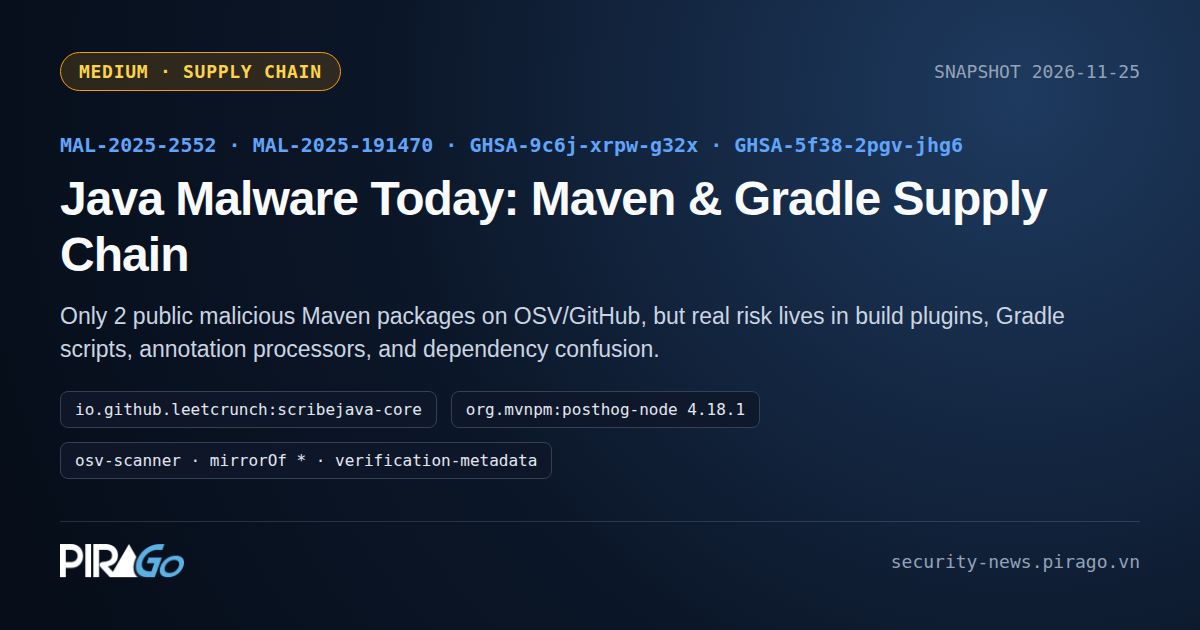
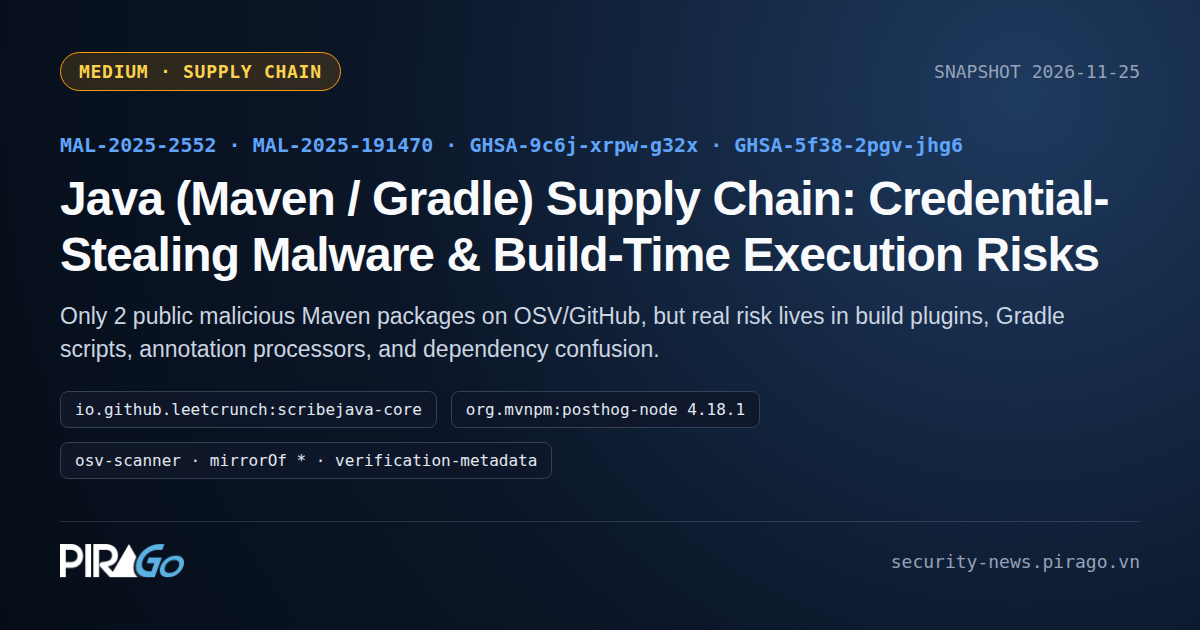
docs: clarify vulnerability-focused title for Java/Maven analysis and add rule in featured/RULES.md

Changed region(s): [[0.0308, 0.2714, 0.925, 0.4524]]

diff --git a/featured/vulnerabilities/java-maven-supply-chain-2026-11/ja/analysis.html b/featured/vulnerabilities/java-maven-supply-chain-2026-11/ja/analysis.html
@@ -1,8 +1,8 @@
 ---
 layout: default
 lang: ja
-title: "Java Malware Today — Maven / Gradle サプライチェーンの脅威分析とビルド点検"
-description: "2026年11月25日時点の Java/Maven マルウェア状況：OSV/GitHub の公開悪性パッケージ2件（scribejava-core タイポスクワット、org.mvnpm:posthog-node）、ビルド時の攻撃面（プラグイン・アノテーションプロセッサ・依存関係混乱）、点検コマンドまとめ。"
+title: "Java（Maven / Gradle）サプライチェーン — OAuth/GitHub トークン窃取マルウェア（MAL-2025-2552・MAL-2025-191470）とビルド時コード実行リスク"
+description: "2026年11月25日時点の Java/Maven/Gradle サプライチェーン脅威分析：OSV/GitHub の悪性パッケージ2件（OAuth 窃取の scribejava-core 偽装、Sha1-Hulud 感染の org.mvnpm:posthog-node）、ビルド時コード実行面（プラグイン・APT・依存関係混乱）と点検手順。"
 image: "/featured/vulnerabilities/java-maven-supply-chain-2026-11/java-maven-supply-chain-og.png"
 category: "脆弱性分析"
 permalink: /ja/featured/vulnerabilities/java-maven-supply-chain-2026-11/analysis/
@@ -34,7 +34,7 @@ permalink: /ja/featured/vulnerabilities/java-maven-supply-chain-2026-11/analysis
 </style>
 
 <div class="report-header">
-  <h1>Java Malware Today — Maven &amp; Gradle サプライチェーンの脅威分析とビルド点検</h1>
+  <h1>Java（Maven / Gradle）サプライチェーン — OAuth/GitHub トークン窃取マルウェア（MAL-2025-2552・MAL-2025-191470）とビルド時コード実行リスク</h1>
   <p class="sub">公開日：<strong>2026-11-25</strong> · 更新：<strong>2026-11-26</strong> · 月次レポート：<a href="{{ '/ja/monthly/2026-11/' | relative_url }}">2026年11月レポート</a> · 重大度：<span class="badge med">中（Supply Chain）</span>（出典：Safeguard.sh、GitHub Advisories、OSV、OpenSSF）。</p>
 </div>
 

diff --git a/featured/vulnerabilities/java-maven-supply-chain-2026-11/analysis.html b/featured/vulnerabilities/java-maven-supply-chain-2026-11/analysis.html
@@ -1,7 +1,7 @@
 ---
 layout: default
-title: "Java Malware Today — Chuỗi cung ứng Maven & Gradle: Phân tích & Kiểm tra build"
-description: "Tổng hợp bức tranh mã độc Java/Maven tính đến 25-11-2026: 2 gói độc hại trên OSV/GitHub (scribejava-core typosquat, org.mvnpm:posthog-node), bề mặt tấn công lúc build (Maven/Gradle plugin, annotation processor, dependency confusion) và lệnh kiểm tra thực tế."
+title: "Chuỗi cung ứng Java (Maven / Gradle) — Mã độc đánh cắp OAuth/GitHub token (MAL-2025-2552, MAL-2025-191470) & Rủi ro thực thi mã lúc build"
+description: "Phân tích rủi ro chuỗi cung ứng Java/Maven/Gradle tính đến 25-11-2026: 2 gói độc hại trên OSV/GitHub (scribejava-core typosquat lấy OAuth token, org.mvnpm:posthog-node nhiễm sâu Sha1-Hulud), bề mặt thực thi mã lúc build (plugin, annotation processor, dependency confusion) và lệnh kiểm tra."
 image: "/featured/vulnerabilities/java-maven-supply-chain-2026-11/java-maven-supply-chain-og.png"
 category: "Phân tích lỗ hổng"
 ---
@@ -32,7 +32,7 @@ category: "Phân tích lỗ hổng"
 </style>
 
 <div class="report-header">
-  <h1>Java Malware Today — Chuỗi cung ứng Maven &amp; Gradle &amp; Cách kiểm tra build</h1>
+  <h1>Chuỗi cung ứng Java (Maven / Gradle) — Mã độc đánh cắp OAuth/GitHub token (MAL-2025-2552, MAL-2025-191470) &amp; Rủi ro thực thi mã lúc build</h1>
   <p class="sub">Công bố: <strong>2026-11-25</strong> · Cập nhật: <strong>2026-11-26</strong> · Bản tin tháng: <a href="{{ '/monthly/2026-11/' | relative_url }}">Báo cáo tháng 11/2026</a> · Mức độ: <span class="badge med">Trung bình (Supply Chain)</span> (Nguồn: Safeguard.sh, GitHub Advisories, OSV, OpenSSF).</p>
 </div>
 

diff --git a/featured/RULES.md b/featured/RULES.md
@@ -20,6 +20,8 @@ Mỗi case đặt trong `featured/<type>/<case-slug>/` (`<type>` là `vulnerabil
 
 ## 2. Front Matter chuẩn
 
+> **Quy tắc đặt tiêu đề (`title`, `<h1>`, `_data/featured.yml`):** Tiêu đề phải nêu rõ **đối tượng/thành phần bị ảnh hưởng**, **mã định danh** (CVE/GHSA/MAL nếu có) và **bản chất lỗ hổng / tác động thực tế** (ví dụ: RCE, thoát sandbox, đánh cắp token, thực thi mã lúc build...). Tránh dùng nguyên tiêu đề chung chung từ bài blog/tin nguồn (như *"… Today"*, *"Weekly Roundup"*); cả bản `vi` và `ja` phải thể hiện rõ rủi ro kỹ thuật ngay khi đọc tiêu đề.
+
 ### Bản tiếng Việt (`vi`)
 ```yaml
 ---
